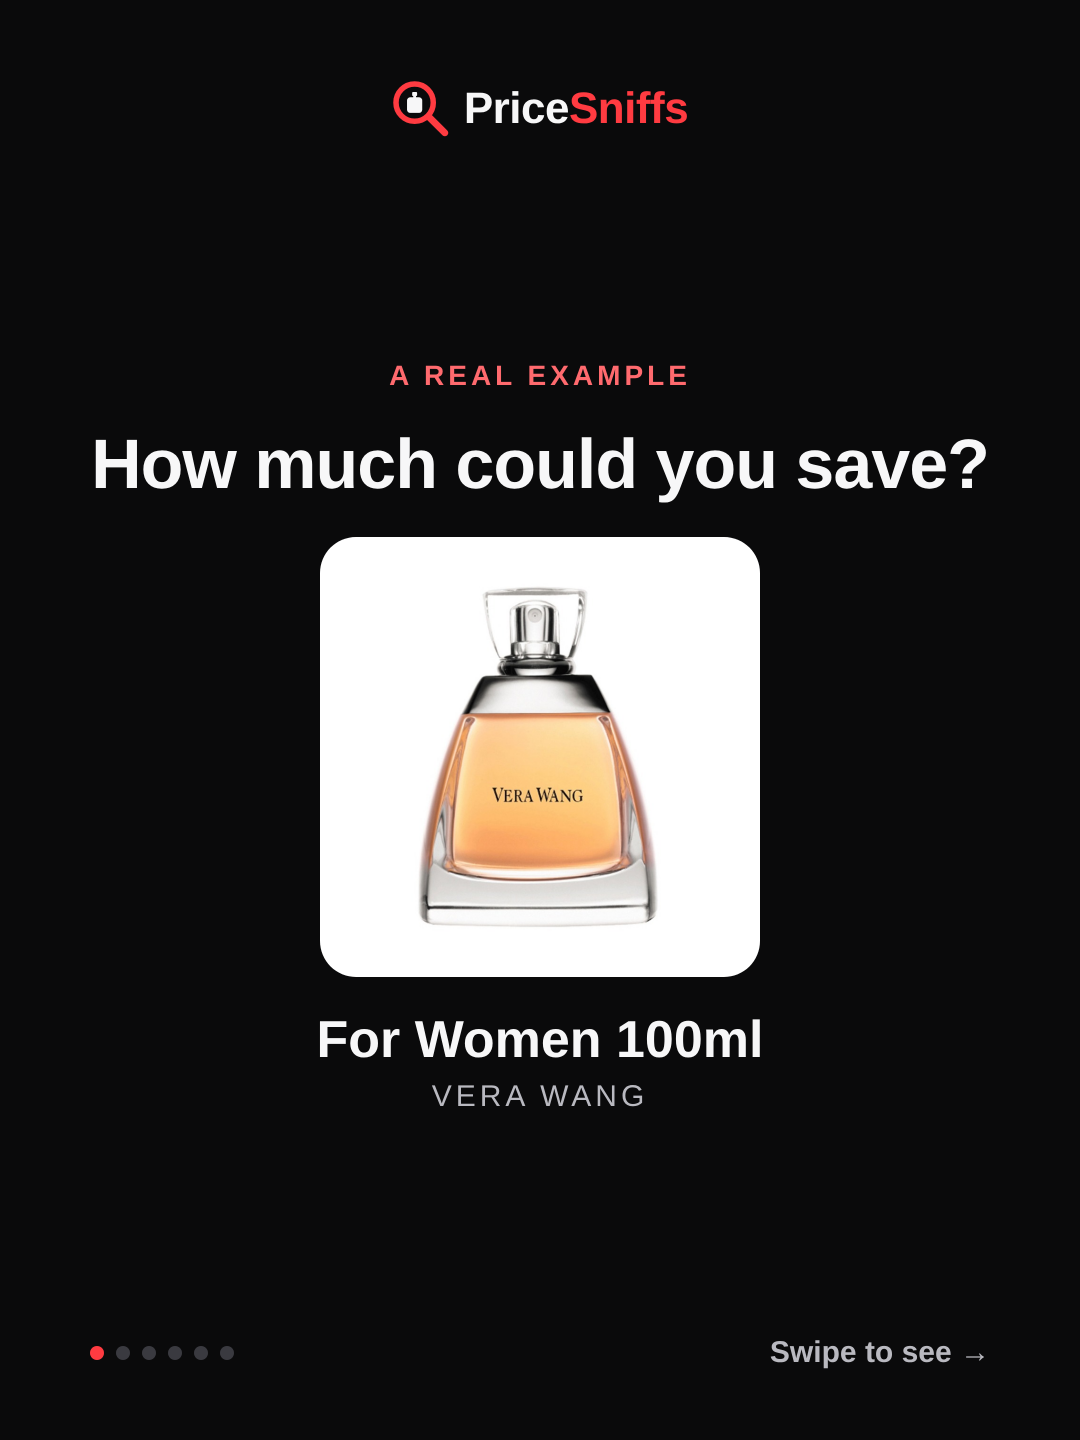
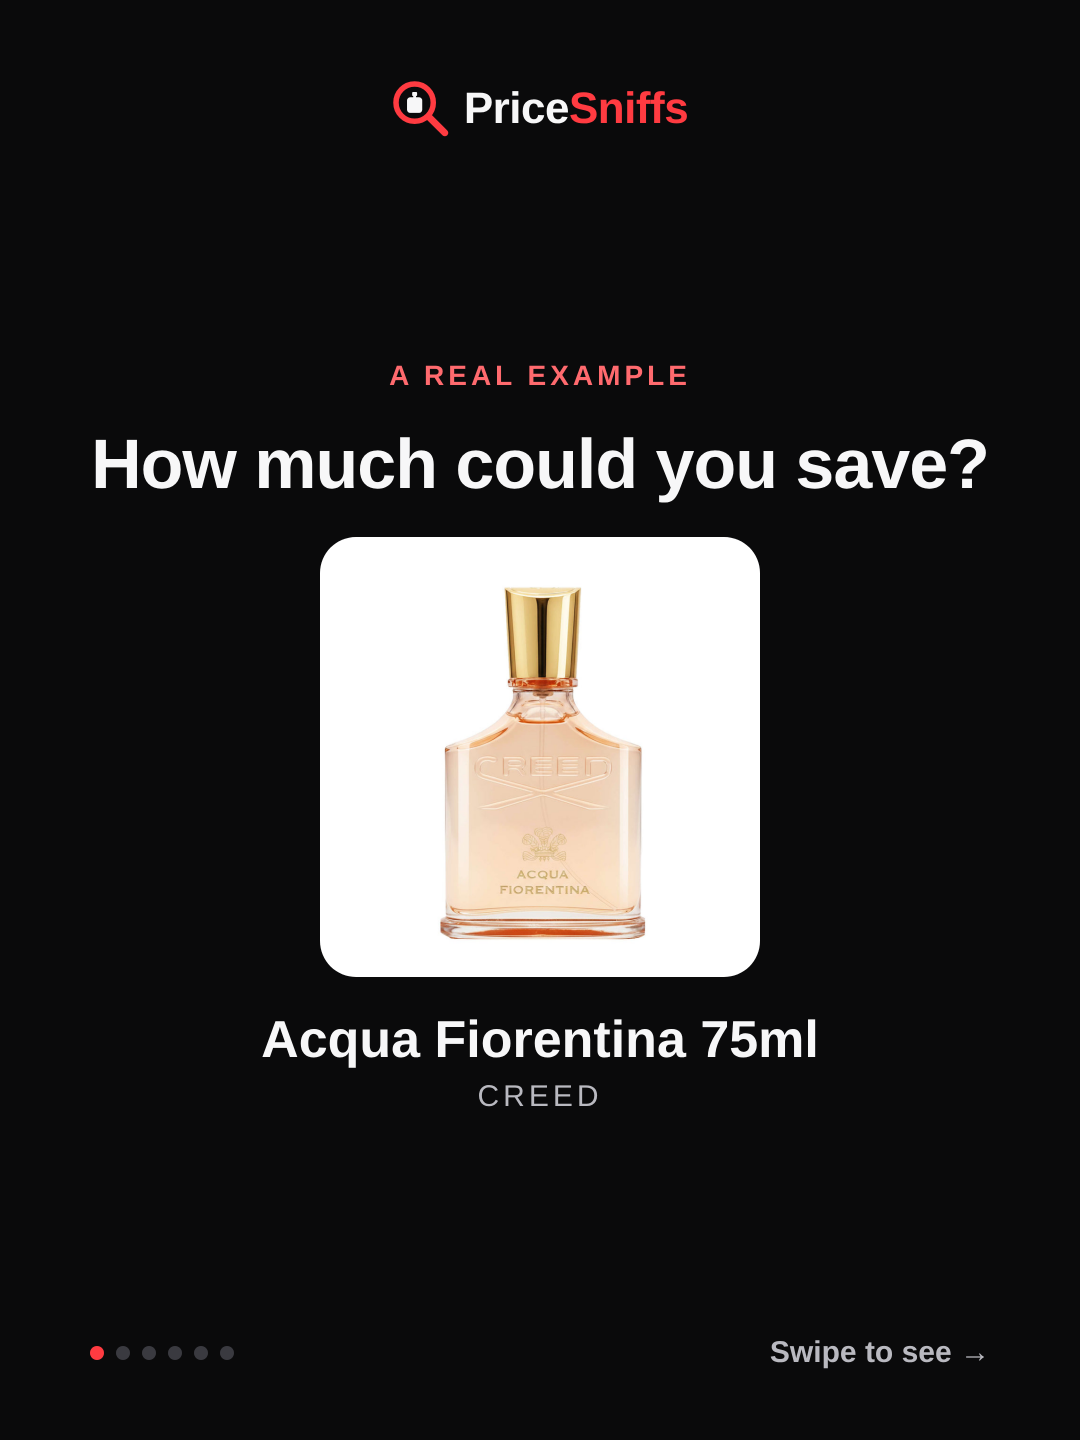
Social: savings posts only for perfumes over £60
The well known shop's bottle price must be above £60. Today's post is
remade under the rule: Creed Acqua Fiorentina, Allbeauty vs
MyBeauty.Boutique. When neither shop charges delivery, slides 2 and 3 say
so instead of "then comes delivery".

Claude-Session: https://claude.ai/code/session_01R3frsh37eDNrxM6REtigC8

Changed region(s): [[0.3667, 0.4062, 0.6111, 0.6562], [0.2444, 0.6875, 0.7639, 0.7812]]

diff --git a/scripts/social-savings.ts b/scripts/social-savings.ts
@@ -39,6 +39,8 @@ const HISTORY = join(ROOT, 'social', 'savings-history.json');
 const TOTAL = 6;
 const MAX_AGE_HOURS = 96;
 const NO_REPEAT_DAYS = 30;
+/** Only perfumes worth over this at the well known shop (bottle price, before delivery). */
+const MIN_BOTTLE_GBP = 60;
 const WELL_KNOWN = new Set([
   'selfridges', 'john-lewis', 'lookfantastic', 'superdrug', 'allbeauty',
   'harvey-nichols', 'boots', 'the-perfume-shop', 'the-fragrance-shop', 'notino',
@@ -77,7 +79,7 @@ function candidates(): Example[] {
     const dear = rows
       .filter((r) => WELL_KNOWN.has(r.retailer.id) && r.isPurchasable && r.deliveredPriceGbp !== null && r.ageSeconds <= MAX_AGE_HOURS * 3600)
       .sort((a, b) => b.deliveredPriceGbp! - a.deliveredPriceGbp!)[0];
-    if (!dear) continue;
+    if (!dear || (!forced && dear.itemPriceGbp <= MIN_BOTTLE_GBP)) continue;
     const saving = Math.round((dear.deliveredPriceGbp! - cheap.deliveredPriceGbp) * 100) / 100;
     const percent = Math.round((saving / dear.deliveredPriceGbp!) * 100);
     if (!forced && (saving < 5 || percent < 10)) continue;
@@ -173,6 +175,9 @@ function slides(e: Example, photo: string): string[] {
     : ship.membershipPerk ? '<p class="note2">Free delivery is for paid members only</p>'
     : '';
   const year = Math.round(e.saving * 12 * 100) / 100;
+  // When neither shop charges delivery, slides 2 and 3 say so instead of "then comes delivery".
+  const bothFree = dd <= 0 && cd <= 0;
+  const then = bothFree ? 'And both deliver free.' : 'Then comes delivery.';
   const fine = `<p class="fine">Prices checked ${dateLabel}. Prices change, so check before you buy.</p>`;
   const sumLines = (item: number, del: number) =>
     `<div class="line"><span>Bottle</span><span>${gbp(item)}</span></div>
@@ -189,15 +194,15 @@ function slides(e: Example, photo: string): string[] {
        <div class="shopcard"><p class="s" data-fit="1,22">${dear}</p><p class="p" data-fit="1,40">${gbp(e.dear.itemPriceGbp)}</p><p class="l">Bottle price</p></div>
        <div class="shopcard win"><span class="win-tag">CHEAPEST WE FOUND</span><p class="s" data-fit="1,22">${cheap}</p><p class="p" data-fit="1,40">${gbp(e.cheap.itemPriceGbp)}</p><p class="l">Bottle price</p></div>
      </div>
-     <p class="sub">${e.dear.itemPriceGbp > e.cheap.itemPriceGbp ? `Already ${gbp(e.dear.itemPriceGbp - e.cheap.itemPriceGbp)} apart. Then comes delivery.` : 'Close on the label. Then comes delivery.'}</p>
+     <p class="sub">${e.dear.itemPriceGbp > e.cheap.itemPriceGbp ? `Already ${gbp(e.dear.itemPriceGbp - e.cheap.itemPriceGbp)} apart. ${then}` : `Close on the label. ${then}`}</p>
      ${fine}`,
-    `<p class="kicker">Then comes delivery</p>
-     <h1 data-fit="1,40">We add it in for you</h1>
+    `<p class="kicker">${bothFree ? 'And delivery?' : 'Then comes delivery'}</p>
+     <h1 data-fit="1,40">${bothFree ? 'Free at both shops' : 'We add it in for you'}</h1>
      <div class="sum">
        <div class="sumcard"><p class="s" data-fit="1,22">${dear}</p>${sumLines(e.dear.itemPriceGbp, dd)}${dearMember}</div>
        <div class="sumcard win"><p class="s" data-fit="1,22">${cheap}</p>${sumLines(e.cheap.itemPriceGbp, cd)}</div>
      </div>
-     <p class="sub">PriceSniffs shows the total before you click.</p>`,
+     <p class="sub">${bothFree ? 'So the gap stays. ' : ''}PriceSniffs shows the total before you click.</p>`,
     `<p class="kicker">Your saving on one bottle</p>
      <div class="stack">
        <p class="big" data-fit="1,80">${gbp(e.saving)}</p>
@@ -227,6 +232,9 @@ function caption(e: Example, url: string): string {
   const dd = e.dear.delivery.costGbp ?? 0;
   const cd = e.cheap.delivery.costGbp ?? 0;
   const year = Math.round(e.saving * 12 * 100) / 100;
+  // When neither shop charges delivery, slides 2 and 3 say so instead of "then comes delivery".
+  const bothFree = dd <= 0 && cd <= 0;
+  const then = bothFree ? 'And both deliver free.' : 'Then comes delivery.';
   const tag = undash(e.frag.brand).toLowerCase().replace(/[^a-z0-9]/g, '');
   const dearSentence = dd > 0
     ? `${name} by ${undash(e.frag.brand)} is ${gbp(e.dear.itemPriceGbp)} at ${dear}, and their delivery adds ${gbp(dd)} at checkout, so you pay ${gbp(e.dear.deliveredPriceGbp!)}.`

diff --git a/social/posts/2026-10-02-savings/slide-3-3x4.html b/social/posts/2026-10-02-savings/slide-3-3x4.html
@@ -71,17 +71,17 @@
   .badge { display: inline-block; padding: 14px 30px; border-radius: 999px; background: var(--pill-bg); color: var(--pill-ink); font-size: 40px; font-weight: 700; }
 </style></head><body><main>
   <div class="brandline"><svg class="mark" viewBox="240 240 610 610" aria-hidden="true"><circle cx="478" cy="478" r="196" fill="none" stroke="var(--mark-ring)" stroke-width="58"/><line x1="636" y1="636" x2="796" y2="796" stroke="var(--mark-ring)" stroke-width="72" stroke-linecap="round"/><g fill="var(--mark-bottle)"><rect x="452" y="366" width="52" height="42" rx="9"/><rect x="463" y="402" width="30" height="26"/><rect x="398" y="422" width="160" height="164" rx="34"/></g></svg><span>Price<em>Sniffs</em></span></div>
-  <div class="body"><p class="kicker">Then comes delivery</p>
-     <h1 data-fit="1,40">We add it in for you</h1>
+  <div class="body"><p class="kicker">And delivery?</p>
+     <h1 data-fit="1,40">Free at both shops</h1>
      <div class="sum">
-       <div class="sumcard"><p class="s" data-fit="1,22">Allbeauty</p><div class="line"><span>Bottle</span><span>£22.25</span></div>
-     <div class="line"><span>Delivery at checkout</span><span class="plus">+ £3.95</span></div>
-     <div class="line total"><span>You pay</span><span>£26.20</span></div><p class="note2">Free delivery only on orders over £25</p></div>
-       <div class="sumcard win"><p class="s" data-fit="1,22">Fragrance Click</p><div class="line"><span>Bottle</span><span>£18.95</span></div>
+       <div class="sumcard"><p class="s" data-fit="1,22">Allbeauty</p><div class="line"><span>Bottle</span><span>£195.90</span></div>
      <div class="line"><span>Delivery</span><span class="free">Free</span></div>
-     <div class="line total"><span>You pay</span><span>£18.95</span></div></div>
+     <div class="line total"><span>You pay</span><span>£195.90</span></div></div>
+       <div class="sumcard win"><p class="s" data-fit="1,22">MyBeauty.Boutique</p><div class="line"><span>Bottle</span><span>£138.99</span></div>
+     <div class="line"><span>Delivery</span><span class="free">Free</span></div>
+     <div class="line total"><span>You pay</span><span>£138.99</span></div></div>
      </div>
-     <p class="sub">PriceSniffs shows the total before you click.</p></div>
+     <p class="sub">So the gap stays. PriceSniffs shows the total before you click.</p></div>
   <div class="foot"><div class="dots"><i class=""></i><i class=""></i><i class="on"></i><i class=""></i><i class=""></i><i class=""></i></div><span class="swipe">Swipe &rarr;</span></div>
 </main><script>
 (() => {

diff --git a/social/posts/2026-10-02-savings/slide-1-3x4.html b/social/posts/2026-10-02-savings/slide-1-3x4.html
@@ -73,8 +73,8 @@
   <div class="brandline"><svg class="mark" viewBox="240 240 610 610" aria-hidden="true"><circle cx="478" cy="478" r="196" fill="none" stroke="var(--mark-ring)" stroke-width="58"/><line x1="636" y1="636" x2="796" y2="796" stroke="var(--mark-ring)" stroke-width="72" stroke-linecap="round"/><g fill="var(--mark-bottle)"><rect x="452" y="366" width="52" height="42" rx="9"/><rect x="463" y="402" width="30" height="26"/><rect x="398" y="422" width="160" height="164" rx="34"/></g></svg><span>Price<em>Sniffs</em></span></div>
   <div class="body"><p class="kicker">A real example</p>
      <h1 data-fit="1,40">How much could you save?</h1>
-     <div class="photo"><img src="https://www.fragranceclick.co.uk/media/catalog/product/1/4/1428.jpg" alt=""></div>
-     <div class="who"><p class="name" data-fit="2,34">For Women 100ml</p><p class="brand" data-fit="1,20">Vera Wang</p></div></div>
+     <div class="photo"><img src="https://allbeauty.com/cdn/shop/files/120883_2735306d-da37-4b98-8966-eea812de2819.jpg?v=1770026741&width=3000" alt=""></div>
+     <div class="who"><p class="name" data-fit="2,34">Acqua Fiorentina 75ml</p><p class="brand" data-fit="1,20">Creed</p></div></div>
   <div class="foot"><div class="dots"><i class="on"></i><i class=""></i><i class=""></i><i class=""></i><i class=""></i><i class=""></i></div><span class="swipe">Swipe to see &rarr;</span></div>
 </main><script>
 (() => {

diff --git a/social/posts/2026-10-02-savings/slide-2-3x4.html b/social/posts/2026-10-02-savings/slide-2-3x4.html
@@ -74,10 +74,10 @@
   <div class="body"><p class="kicker">Same bottle, two shops</p>
      <h1 data-fit="1,40">The price on the label</h1>
      <div class="vs">
-       <div class="shopcard"><p class="s" data-fit="1,22">Allbeauty</p><p class="p" data-fit="1,40">£22.25</p><p class="l">Bottle price</p></div>
-       <div class="shopcard win"><span class="win-tag">CHEAPEST WE FOUND</span><p class="s" data-fit="1,22">Fragrance Click</p><p class="p" data-fit="1,40">£18.95</p><p class="l">Bottle price</p></div>
+       <div class="shopcard"><p class="s" data-fit="1,22">Allbeauty</p><p class="p" data-fit="1,40">£195.90</p><p class="l">Bottle price</p></div>
+       <div class="shopcard win"><span class="win-tag">CHEAPEST WE FOUND</span><p class="s" data-fit="1,22">MyBeauty.Boutique</p><p class="p" data-fit="1,40">£138.99</p><p class="l">Bottle price</p></div>
      </div>
-     <p class="sub">Already £3.30 apart. Then comes delivery.</p>
+     <p class="sub">Already £56.91 apart. And both deliver free.</p>
      <p class="fine">Prices checked 2 October 2026. Prices change, so check before you buy.</p></div>
   <div class="foot"><div class="dots"><i class=""></i><i class="on"></i><i class=""></i><i class=""></i><i class=""></i><i class=""></i></div><span class="swipe">Swipe &rarr;</span></div>
 </main><script>

diff --git a/social/posts/2026-10-02-savings/slide-4-3x4.html b/social/posts/2026-10-02-savings/slide-4-3x4.html
@@ -73,9 +73,9 @@
   <div class="brandline"><svg class="mark" viewBox="240 240 610 610" aria-hidden="true"><circle cx="478" cy="478" r="196" fill="none" stroke="var(--mark-ring)" stroke-width="58"/><line x1="636" y1="636" x2="796" y2="796" stroke="var(--mark-ring)" stroke-width="72" stroke-linecap="round"/><g fill="var(--mark-bottle)"><rect x="452" y="366" width="52" height="42" rx="9"/><rect x="463" y="402" width="30" height="26"/><rect x="398" y="422" width="160" height="164" rx="34"/></g></svg><span>Price<em>Sniffs</em></span></div>
   <div class="body"><p class="kicker">Your saving on one bottle</p>
      <div class="stack">
-       <p class="big" data-fit="1,80">£7.25</p>
-       <span class="badge">28% less</span>
-       <p class="sub">£26.20 at Allbeauty<br>£18.95 at Fragrance Click</p>
+       <p class="big" data-fit="1,80">£56.91</p>
+       <span class="badge">29% less</span>
+       <p class="sub">£195.90 at Allbeauty<br>£138.99 at MyBeauty.Boutique</p>
      </div>
      <p class="fine">Prices checked 2 October 2026. Prices change, so check before you buy.</p></div>
   <div class="foot"><div class="dots"><i class=""></i><i class=""></i><i class=""></i><i class="on"></i><i class=""></i><i class=""></i></div><span class="swipe">Swipe &rarr;</span></div>

diff --git a/social/posts/2026-10-02-savings/slide-5-3x4.html b/social/posts/2026-10-02-savings/slide-5-3x4.html
@@ -74,9 +74,9 @@
   <div class="body"><p class="kicker">Buy one a month</p>
      <h1 data-fit="1,40">That's a year of savings</h1>
      <div class="stack">
-       <p class="big" data-fit="1,80">£87</p>
+       <p class="big" data-fit="1,80">£682.92</p>
        <p class="lead">saved over 12 months</p>
-       <p class="sub">12 bottles × £7.25 saved each</p>
+       <p class="sub">12 bottles × £56.91 saved each</p>
      </div>
      <p class="fine">If you bought this bottle every month at today's prices.<br>Prices change, so check before you buy.</p></div>
   <div class="foot"><div class="dots"><i class=""></i><i class=""></i><i class=""></i><i class=""></i><i class="on"></i><i class=""></i></div><span class="swipe">Swipe &rarr;</span></div>

diff --git a/social/DESIGN-SYSTEM.md b/social/DESIGN-SYSTEM.md
@@ -222,7 +222,8 @@ gives the feed post caption in its own copyable box.
    cheapest shop PriceSniffs found ("CHEAPEST WE FOUND")
 3. "Then comes delivery: We add it in for you": bottle, delivery and what you
    pay at each shop, with the reason delivery is charged (for example "Free
-   delivery only on orders over £25")
+   delivery only on orders over £25"). When both shops deliver free it says
+   "And delivery? Free at both shops" instead
 4. "Your saving on one bottle": the saving in pounds, a "N% less" pill, both
    totals
 5. "Buy one a month": the saving over 12 months, marked "at today's prices"
@@ -234,6 +235,8 @@ gives the feed post caption in its own copyable box.
 * The dear side is the dearest in stock listing from a well known shop
   (Selfridges, John Lewis, LOOKFANTASTIC, Superdrug, Allbeauty and the other
   big names when they have prices).
+* The perfume is worth over £60: the well known shop's bottle price, before
+  delivery, is above £60.
 * Both prices were checked in the last 4 days. The saving is at least £5 and
   10%. Examples where the well known shop adds delivery come first.
 * Where a shop's product data can be read live, its price must still match,

diff --git a/social/README.md b/social/README.md
@@ -27,4 +27,4 @@ What to post, where and when: `docs/SOCIAL-MEDIA-PLAN.md`.
 | 2026-10-02 | `posts/2026-10-02-deal-of-the-day/` | Deal of the Day: Zimaya Yaa Umree (9:16 and 3:4) |
 | 2026-10-02 | `posts/2026-10-02-what-is-pricesniffs/` | Intro carousel: "What is PriceSniffs?" (4 slides, 3:4 post). Remake with `npx tsx scripts/social-intro-slides.ts` |
 | 2026-10-02 | `posts/2026-10-02-savings-example/` | Savings example carousel: Miss Dior, Selfridges vs Justmylook (6 slides, 3:4 post). Made with `scripts/social-savings.ts` (inverted theme, hand picked) |
-| 2026-10-02 | `posts/2026-10-02-savings/` | How much could you save?: Vera Wang For Women, Allbeauty vs Fragrance Click (6 slides, 3:4 post) |
+| 2026-10-02 | `posts/2026-10-02-savings/` | How much could you save?: Creed Acqua Fiorentina, Allbeauty vs MyBeauty.Boutique (6 slides, 3:4 post) |
